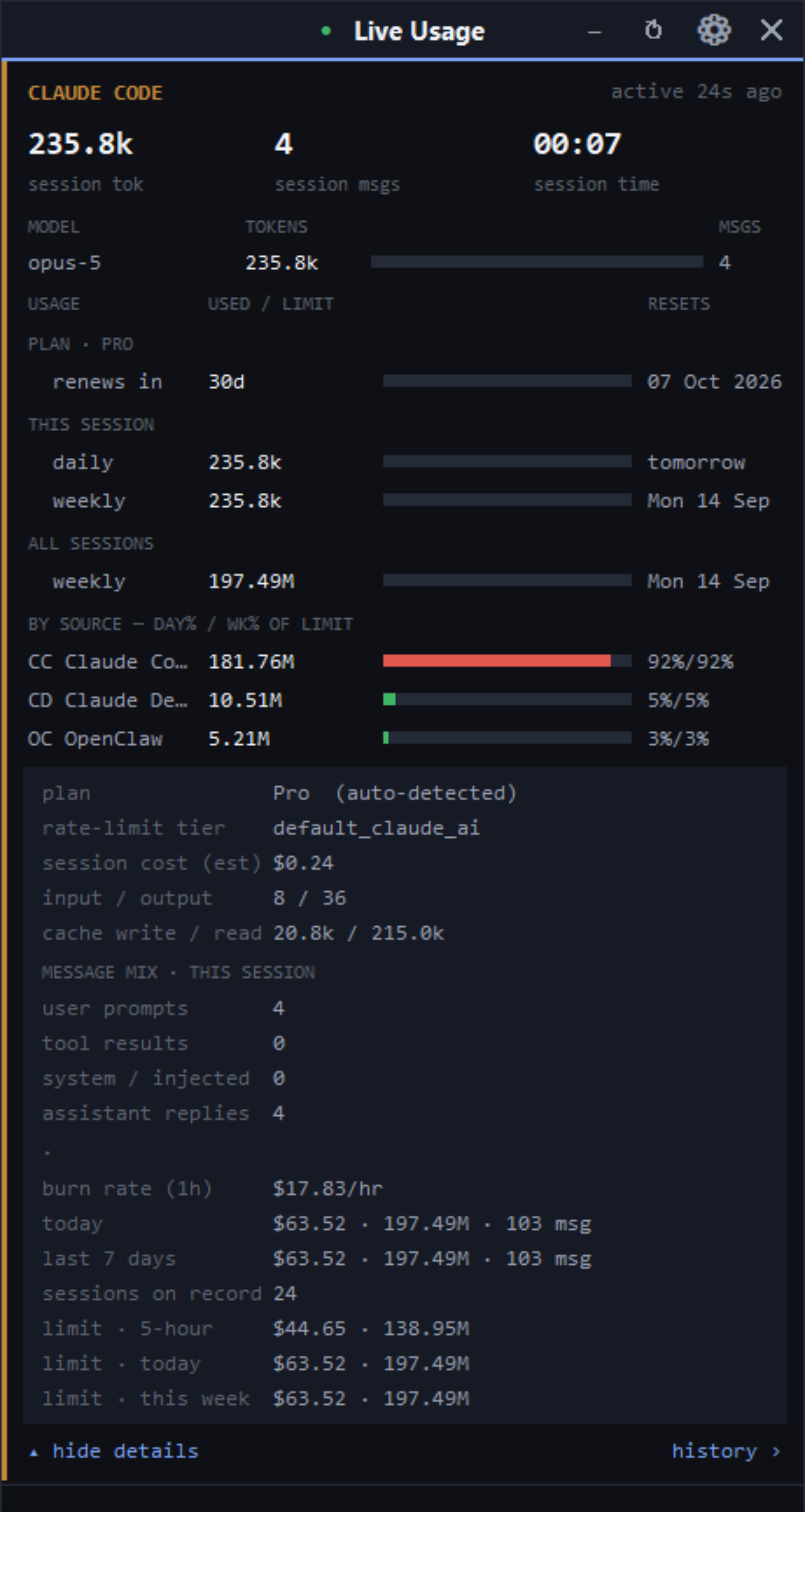
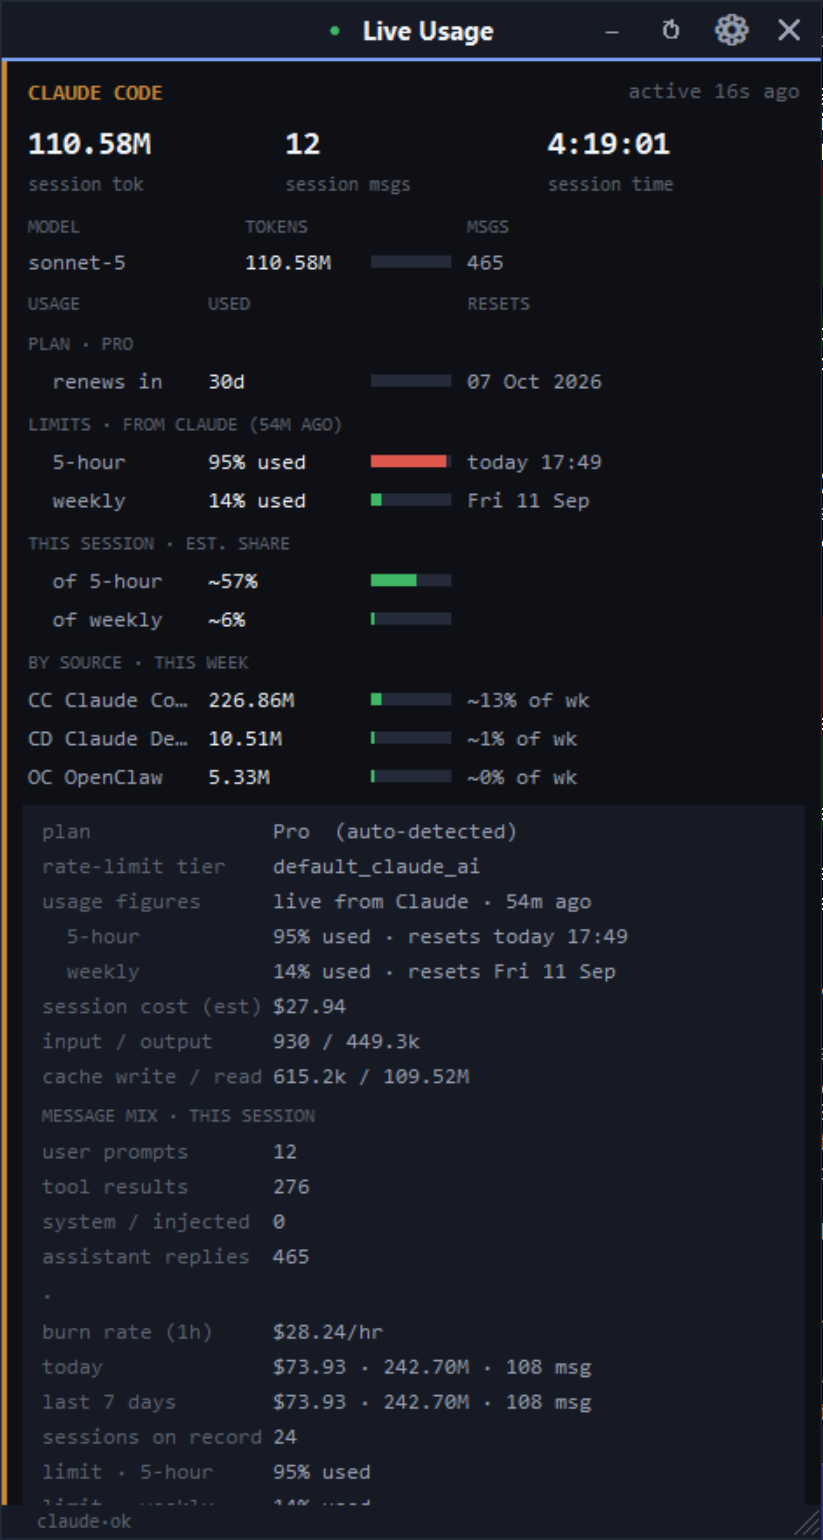
Read real 5-hour + weekly limits from Claude Code's /usage cache
The daily/weekly reset dates were computed from calendar boundaries (midnight,
Monday) - guesses that did not match Anthropic's actual rolling windows. They
are now read straight from ~/.claude.json -> cachedUsageUtilization, the same
data /usage shows:

- 5-hour (session) and weekly (7-day) windows with their true % used and true
  reset timestamps - no config, no estimate
- header shows how long ago Claude Code last refreshed those figures
- 'this session / est. share' derives each window's implied ceiling from the
  live % and shows this session's rough contribution (marked ~)
- 'by source / this week' contributions now sum to the real weekly % used
- falls back to a clearly-labelled local token estimate only if the cache is
  absent

Also: fixed-width bar column so the reset-time column can't be pushed off the
right edge; drop the unused calendar 'daily' concept (Anthropic has none).

diff --git a/usage_sources.py b/usage_sources.py
@@ -366,6 +366,50 @@ def detect_claude_account() -> dict:
     return out
 
 
+# window key -> friendly label, in display order
+_USAGE_WINDOWS = [
+    ("five_hour", "5-hour"),
+    ("seven_day", "weekly"),
+    ("seven_day_opus", "weekly · Opus"),
+    ("seven_day_sonnet", "weekly · Sonnet"),
+]
+
+
+def detect_claude_usage() -> dict:
+    """
+    The REAL rate-limit utilization and reset times, straight from Claude Code's
+    own cache (``~/.claude.json`` -> ``cachedUsageUtilization``).  This is the
+    same data ``/usage`` shows - Anthropic's numbers, not a local estimate.
+
+    Returns ``{"fetched_ts": float|None, "windows": [ {label, key, pct,
+    resets_ts, used_dollars, limit_dollars} ... ]}`` or ``{}`` if the cache
+    is missing.
+    """
+    try:
+        with open(os.path.expanduser("~/.claude.json")) as fh:
+            j = json.load(fh)
+    except Exception:
+        return {}
+    cu = j.get("cachedUsageUtilization") or {}
+    util = cu.get("utilization") or {}
+    if not util:
+        return {}
+    fa = cu.get("fetchedAtMs")
+    windows = []
+    for key, label in _USAGE_WINDOWS:
+        blk = util.get(key)
+        if not isinstance(blk, dict) or blk.get("utilization") is None:
+            continue
+        windows.append({
+            "key": key, "label": label,
+            "pct": float(blk["utilization"]),
+            "resets_ts": _parse_iso(blk.get("resets_at")) or None,
+            "used_dollars": blk.get("used_dollars"),
+            "limit_dollars": blk.get("limit_dollars"),
+        })
+    return {"fetched_ts": (fa / 1000.0) if fa else None, "windows": windows}
+
+
 # ---------------------------------------------------------------------------
 # base
 # ---------------------------------------------------------------------------
@@ -625,58 +669,58 @@ class ClaudeCodeProvider(_SessionLogProvider):
             rows.append(("account", a["email"]))
         if self.show_account and a.get("org") and a.get("org") != a.get("email"):
             rows.append(("organisation", a["org"]))
+        real = detect_claude_usage()
+        if real.get("windows"):
+            ft = real.get("fetched_ts")
+            rows.append(("usage figures", "live from Claude · " + (
+                fmt_ago(ft) if ft else "cached")))
+            for w in real["windows"]:
+                when = fmt_reset_date(w["resets_ts"]) if w["resets_ts"] else "—"
+                rows.append((f"  {w['label']}", f"{w['pct']:.0f}% used · resets {when}"))
+        else:
+            rows.append(("usage figures", "estimated (Claude's /usage cache "
+                         "not found yet — open Claude Code once)"))
         return rows
 
     def _limit_rows(self, span, views, now) -> list[dict]:
-        d = datetime.datetime.fromtimestamp(now)
-        midnight = datetime.datetime(d.year, d.month, d.day).timestamp()
-        week_start = midnight - d.weekday() * 86400          # local Monday 00:00
+        """Real rolling windows from Claude Code's /usage cache; a rough local
+        token estimate only if that cache isn't present."""
+        real = detect_claude_usage()
+        if real.get("windows"):
+            return [{
+                "name": w["label"], "configured": True,
+                "left_pct": max(0.0, 100.0 - w["pct"]),
+                "value": (f"${w['used_dollars']:.2f} / ${w['limit_dollars']:g}"
+                          if w.get("used_dollars") is not None
+                          and w.get("limit_dollars")
+                          else f"{w['pct']:.0f}% used"),
+                "reset_ts": w["resets_ts"],
+            } for w in real["windows"]]
 
-        active = [v["started_ts"] for v in views
-                  if (v["last_ts"] or 0) >= now - 5 * 3600 and v.get("started_ts")]
-        anchor_5h = max(now - 5 * 3600, min(active)) if active else now - 5 * 3600
-
-        plan = [
-            ("5-hour", span(now - 5 * 3600),
-             _roll_future(anchor_5h + 5 * 3600, 5 * 3600, now)),
-            ("today", span(midnight), _roll_future(midnight + 86400, 86400, now)),
-            ("this week", span(week_start),
-             _roll_future(week_start + 7 * 86400, 7 * 86400, now)),
+        a5 = span(now - 5 * 3600)
+        a7 = span(now - 7 * 86400)
+        return [
+            {"name": "5-hour", "configured": False, "left_pct": None,
+             "value": f"{fmt_tokens(a5['tok'])} · ${a5['cost']:.2f} (est)",
+             "reset_ts": None},
+            {"name": "weekly", "configured": False, "left_pct": None,
+             "value": f"{fmt_tokens(a7['tok'])} · ${a7['cost']:.2f} (est)",
+             "reset_ts": None},
         ]
-        rows = []
-        for name, agg, reset_ts in plan:
-            spec = self.limits.get(name) or {}
-            lc, lt = spec.get("cost_usd"), spec.get("tokens")
-            if lc:
-                left = max(0.0, 100.0 * (1 - agg["cost"] / lc))
-                rows.append({"name": name, "configured": True, "left_pct": left,
-                             "value": f"${agg['cost']:.2f} / ${lc:g}",
-                             "reset_ts": reset_ts})
-            elif lt:
-                left = max(0.0, 100.0 * (1 - agg["tok"] / lt))
-                rows.append({"name": name, "configured": True, "left_pct": left,
-                             "value": f"{fmt_tokens(agg['tok'])} / {fmt_tokens(lt)}",
-                             "reset_ts": reset_ts})
-            else:
-                rows.append({"name": name, "configured": False, "left_pct": None,
-                             "value": f"${agg['cost']:.2f} · {fmt_tokens(agg['tok'])}",
-                             "reset_ts": reset_ts})
-        return rows
 
     # -- split daily / weekly usage + per-source breakdown -----------
     def _usage_block(self, views, now) -> dict | None:
         if not views:
             return None
-        d = datetime.datetime.fromtimestamp(now)
-        midnight = datetime.datetime(d.year, d.month, d.day).timestamp()
-        week_start = midnight - d.weekday() * 86400
         cur = views[0]
 
-        daily = self.limits.get("today") or {}
-        weekly = self.limits.get("this week") or {}
-        d_tok, d_cost = daily.get("tokens"), daily.get("cost_usd")
-        w_tok, w_cost = weekly.get("tokens"), weekly.get("cost_usd")
+        # --- Anthropic's real numbers (from Claude Code's own /usage cache) ---
+        real = detect_claude_usage()
+        rw = {w["key"]: w for w in real.get("windows", [])}
+        real_5h = rw.get("five_hour")
+        real_wk = rw.get("seven_day")
 
+        # local token aggregation over the matching rolling windows
         def agg(since):
             t = c = 0
             for v in views:
@@ -684,40 +728,61 @@ class ClaudeCodeProvider(_SessionLogProvider):
                     t += v["tokens"]; c += v["cost"]
             return t, c
 
-        today_tok, today_cost = agg(midnight)
-        week_tok, week_cost = agg(week_start)
+        tok_5h, _ = agg(now - 5 * 3600)
+        tok_wk, cost_wk = agg(now - 7 * 86400)
 
-        def row(part_tok, part_cost, lim_tok, lim_cost):
-            if lim_cost:
-                return {"mid": f"${part_cost:.2f} / ${lim_cost:g}",
-                        "pct": 100.0 * part_cost / lim_cost}
-            if lim_tok:
-                return {"mid": f"{fmt_tokens(part_tok)} / {fmt_tokens(lim_tok)}",
-                        "pct": 100.0 * part_tok / lim_tok}
-            return {"mid": fmt_tokens(part_tok), "pct": None}
+        # --- limit rows: the real windows, or an honest estimate if uncached ---
+        limit_rows, source = [], "estimate"
+        if real.get("windows"):
+            source = "claude"
+            for w in real["windows"]:
+                val = f"{w['pct']:.0f}% used"
+                if w.get("used_dollars") is not None and w.get("limit_dollars"):
+                    val = f"${w['used_dollars']:.2f} / ${w['limit_dollars']:g}"
+                limit_rows.append({
+                    "label": w["label"], "pct": w["pct"], "value": val,
+                    "reset_ts": w["resets_ts"], "real": True,
+                })
+        else:
+            limit_rows = [
+                {"label": "5-hour", "pct": None,
+                 "value": f"{fmt_tokens(tok_5h)} used", "reset_ts": None,
+                 "real": False},
+                {"label": "weekly", "pct": None,
+                 "value": f"{fmt_tokens(tok_wk)} used", "reset_ts": None,
+                 "real": False},
+            ]
 
-        # per source, today + this week
+        # --- this session's estimated share of each real window --------------
+        # back out the implied ceiling from Anthropic's % over the same window
+        session_rows = []
+        if real_5h and real_5h["pct"] > 0 and tok_5h:
+            session_rows.append({
+                "label": "5-hour",
+                "pct": real_5h["pct"] * cur["tokens"] / tok_5h})
+        if real_wk and real_wk["pct"] > 0 and tok_wk:
+            session_rows.append({
+                "label": "weekly",
+                "pct": real_wk["pct"] * cur["tokens"] / tok_wk})
+
+        # --- by source, this week: tokens + contribution to the weekly limit -
         by_name: dict[str, dict] = {}
         for v in views:
+            if (v["last_ts"] or 0) < now - 7 * 86400:
+                continue
             meta = v.get("source") or dict(_DEFAULT_SOURCE)
             b = by_name.setdefault(meta["name"], {
                 "name": meta["name"], "badge": meta["badge"],
-                "color": meta["color"], "tok_today": 0, "tok_week": 0,
-                "cost_week": 0.0})
-            lt = v["last_ts"] or 0
-            if lt >= week_start:
-                b["tok_week"] += v["tokens"]; b["cost_week"] += v["cost"]
-            if lt >= midnight:
-                b["tok_today"] += v["tokens"]
-
-        def share(part, whole, limit):
-            denom = limit or whole
-            return (100.0 * part / denom) if denom else None
-
+                "color": meta["color"], "tok_week": 0, "cost_week": 0.0})
+            b["tok_week"] += v["tokens"]; b["cost_week"] += v["cost"]
         by_source = sorted(by_name.values(), key=lambda s: -s["tok_week"])
         for s in by_source:
-            s["daily_pct"] = share(s["tok_today"], today_tok, d_tok)
-            s["weekly_pct"] = share(s["tok_week"], week_tok, w_tok)
+            frac = (s["tok_week"] / tok_wk) if tok_wk else None
+            s["share_pct"] = (frac * 100.0) if frac is not None else None
+            if real_wk and frac is not None:
+                s["weekly_pct"] = real_wk["pct"] * frac      # share of the limit
+            else:
+                s["weekly_pct"] = s["share_pct"]
 
         sub = subscription_days_left(self.subscription)
         if sub:
@@ -731,18 +796,14 @@ class ClaudeCodeProvider(_SessionLogProvider):
                     "%d %b %Y")
 
         return {
-            "daily_reset": _roll_future(midnight + 86400, 86400, now),
-            "weekly_reset": _roll_future(week_start + 7 * 86400, 7 * 86400, now),
-            "subscription": sub,
-            "session": {
-                "daily": row(cur["tokens"], cur["cost"], d_tok, d_cost),
-                "weekly": row(cur["tokens"], cur["cost"], w_tok, w_cost),
-            },
-            "overall": {
-                "daily": row(today_tok, today_cost, d_tok, d_cost),
-                "weekly": row(week_tok, week_cost, w_tok, w_cost),
-            },
+            "source": source,
+            "fetched_ts": real.get("fetched_ts"),
+            "limit_rows": limit_rows,
+            "session_rows": session_rows,
+            "session_tokens": cur["tokens"],
+            "week_tokens": tok_wk,
             "by_source": by_source,
+            "subscription": sub,
         }
 
     def _ingest(self, sess: dict, rec: dict) -> None:

diff --git a/README.md b/README.md
@@ -47,24 +47,22 @@ Then two small tables:
     the guessed date is wrong. Shows *trial ends in Nd* instead while a Claude
     Code trial is active. Plan tier, rate-limit tier and account also appear
     under **▾ more details**.
-  - **this session** · `daily` + `weekly` — how much *this* session has spent
-    against each ceiling. Same token count, two bars, because the daily and
-    weekly ceilings differ.
-  - **all sessions** · `weekly` — every session combined for the week. (There is
-    no "all sessions / daily" row — every past session already rolls up into the
-    weekly window, so it added noise.)
-  - **by source · share of limit** — one row per place Claude Code runs on this
-    PC (each `~/.claude/projects/<folder>` folds into a named source — e.g.
-    **OpenClaw**, **Claude Desktop**, plain **Claude Code**), showing its tokens
-    this week and its share of the **daily** and **weekly ceilings**. With
-    ceilings set, the weekly share is naturally smaller than the daily one;
-    without them it falls back to share-of-total (which coincides on the day the
-    weekly window resets).
-
-  Each row shows the reset date. Set your plan's ceilings in the config (see
-  below) and the middle column becomes **`used / limit`** with a bar that turns
-  amber past 60% and red past 85%. The `5-hour` window lives under
-  **▾ more details**.
+  - **limits · from Claude** — the **real** rolling windows Anthropic enforces,
+    read straight from Claude Code's own `/usage` cache
+    (`~/.claude.json` → `cachedUsageUtilization`): the **5-hour** (session)
+    window and the **weekly** (7-day) window, each with its true **% used** and
+    its true **reset time** — no estimate, no config. The header shows how long
+    ago Claude Code last refreshed those figures. (Anthropic has no "daily"
+    limit; if the cache isn't present yet the row falls back to a local token
+    estimate, clearly marked, until you next run Claude Code.)
+  - **this session · est. share** — roughly how much of each real window *this
+    session* is responsible for, derived from Anthropic's live % over the same
+    span (marked `~`).
+  - **by source · this week** — one row per place Claude Code runs on this PC
+    (each `~/.claude/projects/<folder>` folds into a named source — e.g.
+    **OpenClaw**, **Claude Desktop**, plain **Claude Code**), with its tokens
+    this week and its contribution to the weekly limit. Those contributions sum
+    to the real weekly `% used`.
 
 - **▾ more details** — session cost (est.), input/output split, cache write/read,
   a **message-mix** breakdown (user prompts · tool results · system/injected ·
@@ -146,9 +144,11 @@ present; set `"enabled": false` to hide one, `"enabled": true` to force it.
 "providers": {
   "claude_code": {
     "enabled": true, "poll_seconds": 5,
-    "limits": {                   // fill in your plan's ceilings to get % + bar
+    // The 5-hour + weekly limits, their % and reset times are read live from
+    // Claude Code's own /usage cache - no ceilings to fill in. "limits" below
+    // is only a fallback used if that cache is missing.
+    "limits": {
       "five_hour": { "cost_usd": null, "tokens": null },
-      "daily":     { "cost_usd": null, "tokens": null },
       "weekly":    { "cost_usd": null, "tokens": null }
     },
     "sources": {                  // optional: rename ~/.claude/projects folders
